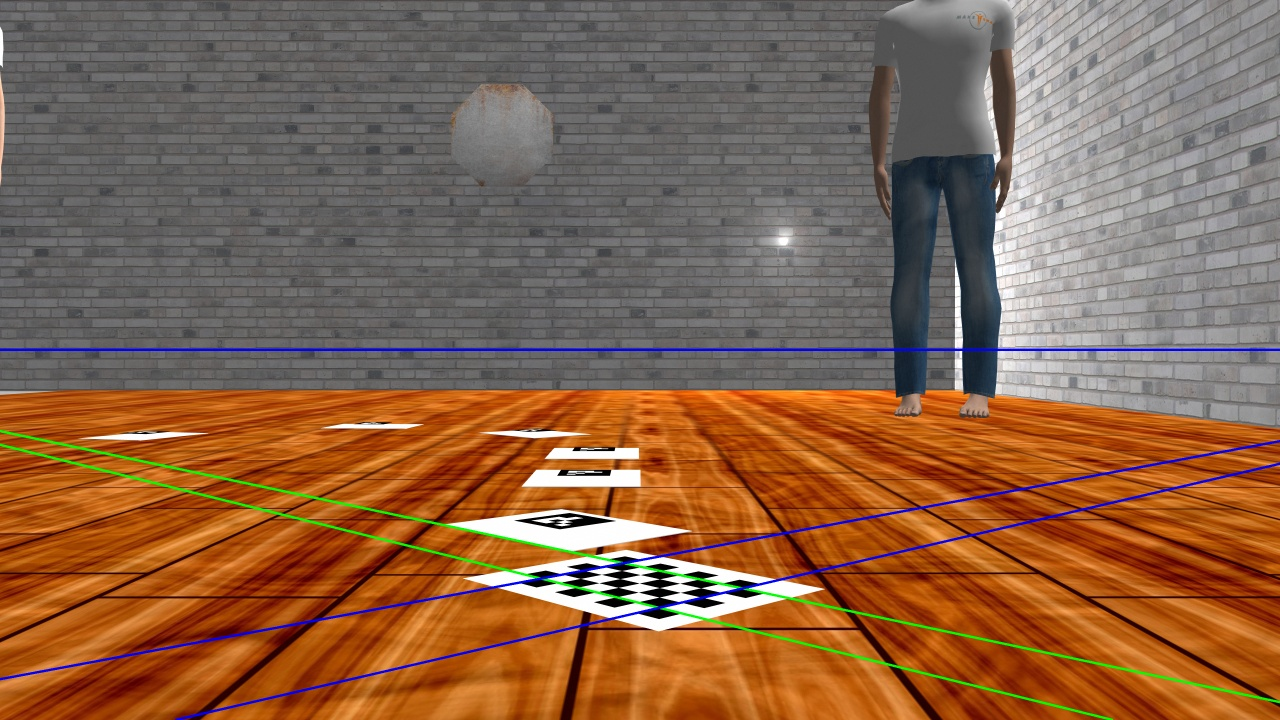
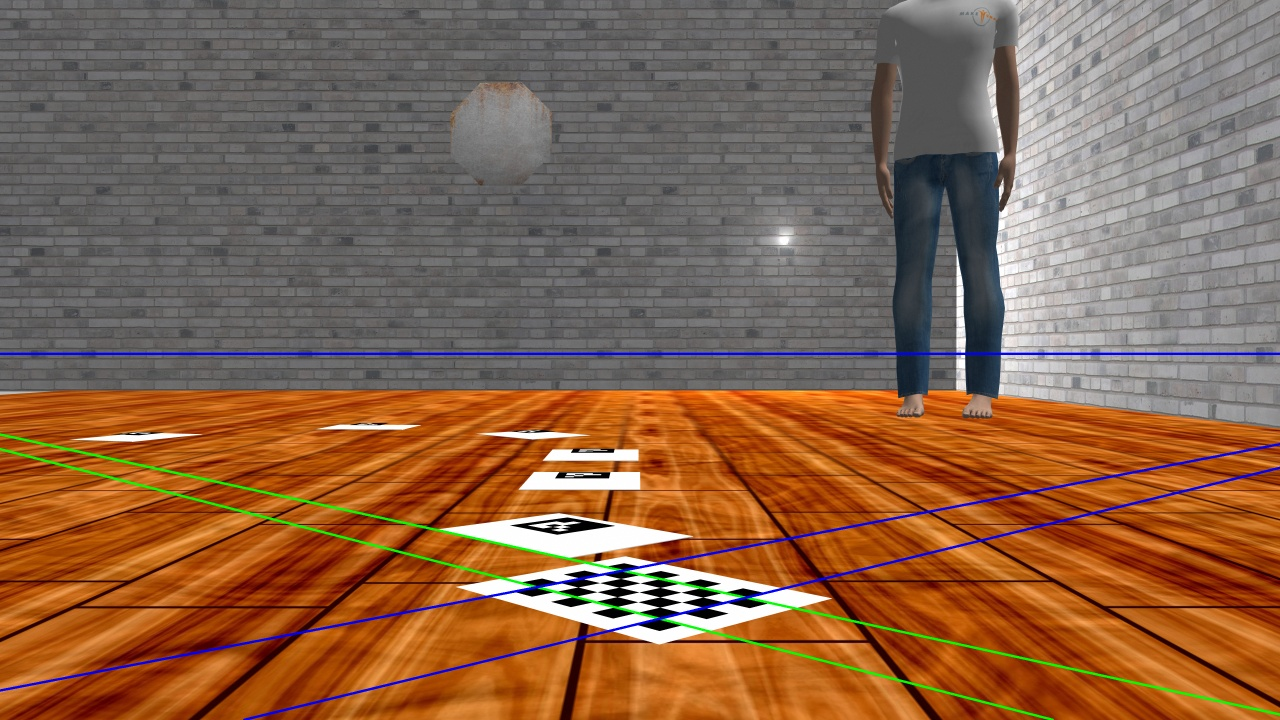
Horizon detection working. Removed old node

diff --git a/enpm673_final_proj/scripts/horizon_detection.py b/enpm673_final_proj/scripts/horizon_detection.py
@@ -11,12 +11,25 @@ class HorizonLine(Node):
   def __init__(self):
     super().__init__('optical_flow')
     # self.declare_parameter('use_sim_time', True)
+
+    # Convert raw ROS image to OpenCV type
+    self._bridge = CvBridge()
+
     # Subscribe to camera topic
     self._img_sub = self.create_subscription(
         Image,
         '/camera/image_raw',
         self.horizon_callback,
         5)
+    
+
+    # # Subscribe to camera topic (Turtlebot4)
+    # self._img_sub = self.create_subscription(
+    #     Image,
+    #     '/camera/image_raw',
+    #     self.horizon_callback,
+    #     5)
+
 
     # Publisher for the processed image
     self.image_pub = self.create_publisher(
@@ -25,10 +38,7 @@ class HorizonLine(Node):
         10
     )
     
-    # Convert raw ROS image to OpenCV type
-    self._bridge = CvBridge()
-    
-    self.checkerboard_dims = (7,5)
+    self.checkerboard_dims = (7,5) # Checkerboard Dimensions
 
     self.image_ready = True  # Flag to control image grabbing
     self.timer = self.create_timer(5.0, self.enable_next_image)
@@ -37,20 +47,21 @@ class HorizonLine(Node):
     self.image_ready = True
     self.get_logger().info("Ready to grab next image...")
 
-  # Subscription callback for performing optical flow detection and tracking
+  # Subscription callback for horizon line detection
   def horizon_callback(self,msg):
 
     if not self.image_ready:
         return
 
     self.image_ready = False  # Block until the next 5 seconds
-    self.get_logger().info("Image received and processed.")
+    #self.get_logger().info("Image received and processed.")
 
-    cv_image = self._bridge.imgmsg_to_cv2(msg, desired_encoding='bgr8')
+    cv_image = self._bridge.imgmsg_to_cv2(msg, desired_encoding='bgr8') # Converting ROS message to OpenCV image
     
-    gray = cv.cvtColor(cv_image, cv.COLOR_BGR2GRAY)
+    gray = cv.cvtColor(cv_image, cv.COLOR_BGR2GRAY) # Greyscale image
 
-    ret, corners = cv.findChessboardCorners(gray, (7,5), None)
+    # Detect and log checkerboard corners found
+    ret, corners = cv.findChessboardCorners(gray, self.checkerboard_dims, None)
     self.get_logger().info(f"findChessboardCorners returned: ret={ret}, number_of_corners={len(corners) if corners is not None else 0}")
 
     if ret:
@@ -60,12 +71,9 @@ class HorizonLine(Node):
         criteria = (cv.TERM_CRITERIA_EPS + cv.TERM_CRITERIA_MAX_ITER, 30, 0.001)
         corners = cv.cornerSubPix(gray, corners, (11, 11), (-1, -1), criteria)
 
-        # Reshape for easier indexing: shape (rows, columns, 2)
-        corners = corners.reshape(self.checkerboard_dims[1], self.checkerboard_dims[0], 2)
+        corners = corners.reshape(self.checkerboard_dims[1], self.checkerboard_dims[0], 2) # Reshape for easier indexing: shape (rows, columns, 2)
 
-        # Make a copy for drawing
-        image_with_lines = cv_image.copy()
-
+        image_with_lines = cv_image.copy() # Make a copy for drawing
 
         # Pick first and last rows of checkerboard
         row1_pts = (corners[0, 0], corners[0, -1])        # First row: first and last corner
@@ -76,11 +84,10 @@ class HorizonLine(Node):
         line2 = self.compute_line_equation(*row2_pts)
 
         # Compute their intersection (homogeneous coordinates)
-        vp = np.cross(line1, line2)
-        vp = vp / vp[2]  # Normalize to (x, y, 1)
+        vp_horizontal = np.cross(line1, line2)
+        vp_horizontal = vp_horizontal / vp_horizontal[2]  # Normalize to (x, y, 1)
 
-        # vp is now the **vanishing point** for horizontal lines
-        print(f"Vanishing point (horizontal lines): {vp}")
+        print(f"Vanishing point (horizontal lines): {vp_horizontal}")
 
 
         # Pick first and last columns of the checkerboard
@@ -105,32 +112,33 @@ class HorizonLine(Node):
             self.draw_extended_line(image_with_lines, pt1, pt2, color=(0, 255, 0), thickness=5)  # green for rows
 
         # 2 vertical lines (columns)
-        cols_to_draw = [0, self.checkerboard_dims[0]-1]  # first and last column
+        cols_to_draw = [0, self.checkerboard_dims[0]-1] 
         for col in cols_to_draw:
             pt1 = corners[0, col]
             pt2 = corners[-1, col]
             self.draw_extended_line(image_with_lines, pt1, pt2, color=(255, 0, 0), thickness=5)  # blue for columns
 
+        # # Draw horizon line (horizontal vanishing point)
+        # self.draw_horizontal_through_point(image_with_lines, vp_horizontal)
 
-        # Draw horizon line
+        # Draw horizon line (vertical vanishing point)
         self.draw_horizontal_through_point(image_with_lines, vp_vertical)
         
-        # Resize the image
-        resized_image = cv.resize(image_with_lines, (1280, 720), interpolation=cv.INTER_AREA)
         
-        # Convert the processed OpenCV image back to ROS Image message
-        processed_msg = self._bridge.cv2_to_imgmsg(resized_image, encoding="rgb8")
+        resized_image = cv.resize(image_with_lines, (1280, 720), interpolation=cv.INTER_AREA) # Resize the image
         
-        # Publish the processed image on a new topic
-        self.image_pub.publish(processed_msg)
+        processed_msg = self._bridge.cv2_to_imgmsg(resized_image, encoding="rgb8") # Convert the processed OpenCV image back to ROS Image message
+        
+        self.image_pub.publish(processed_msg) # Publish the processed image on a new topic
 
-        # Optionally, display the processed image in a window
+        # Display the processed image in a window
         cv.namedWindow("Processed Camera Feed", cv.WINDOW_NORMAL)
         cv.imshow("Processed Camera Feed", image_with_lines)
         cv.imwrite("screenshots/horizon_line_output.jpg", resized_image)
         cv.waitKey(1)
         
 
+  # Extend the parallel lines between checkerboard corners
   def draw_extended_line(self, img, pt1, pt2, color=(0, 255, 0), thickness=2):
         h, w = img.shape[:2]
         a = pt2[1] - pt1[1]
@@ -156,16 +164,15 @@ class HorizonLine(Node):
         if len(points) >= 2:
             cv.line(img, points[0], points[1], color, thickness)
 
-
+  # Computes the line coefficients between two points
   def compute_line_equation(self, p1, p2):
-        """Given two points, return line coefficients a, b, c for ax + by + c = 0"""
         a = p1[1] - p2[1]
         b = p2[0] - p1[0]
         c = p1[0]*p2[1] - p2[0]*p1[1]
         return np.array([a, b, c])
 
+  # Draw a horizontal line through a calculated vanishing point
   def draw_horizontal_through_point(self, image, vp, color=(255, 0, 0), thickness=5):
-        """Draw a horizontal line passing through the given vanishing point."""
         _, w = image.shape[:2]
 
         # Get the y-coordinate from the vanishing point
@@ -177,7 +184,6 @@ class HorizonLine(Node):
 
         cv.line(image, start_point, end_point, color, thickness)
 
-    
 
 # Spin node
 def main(args=None):
